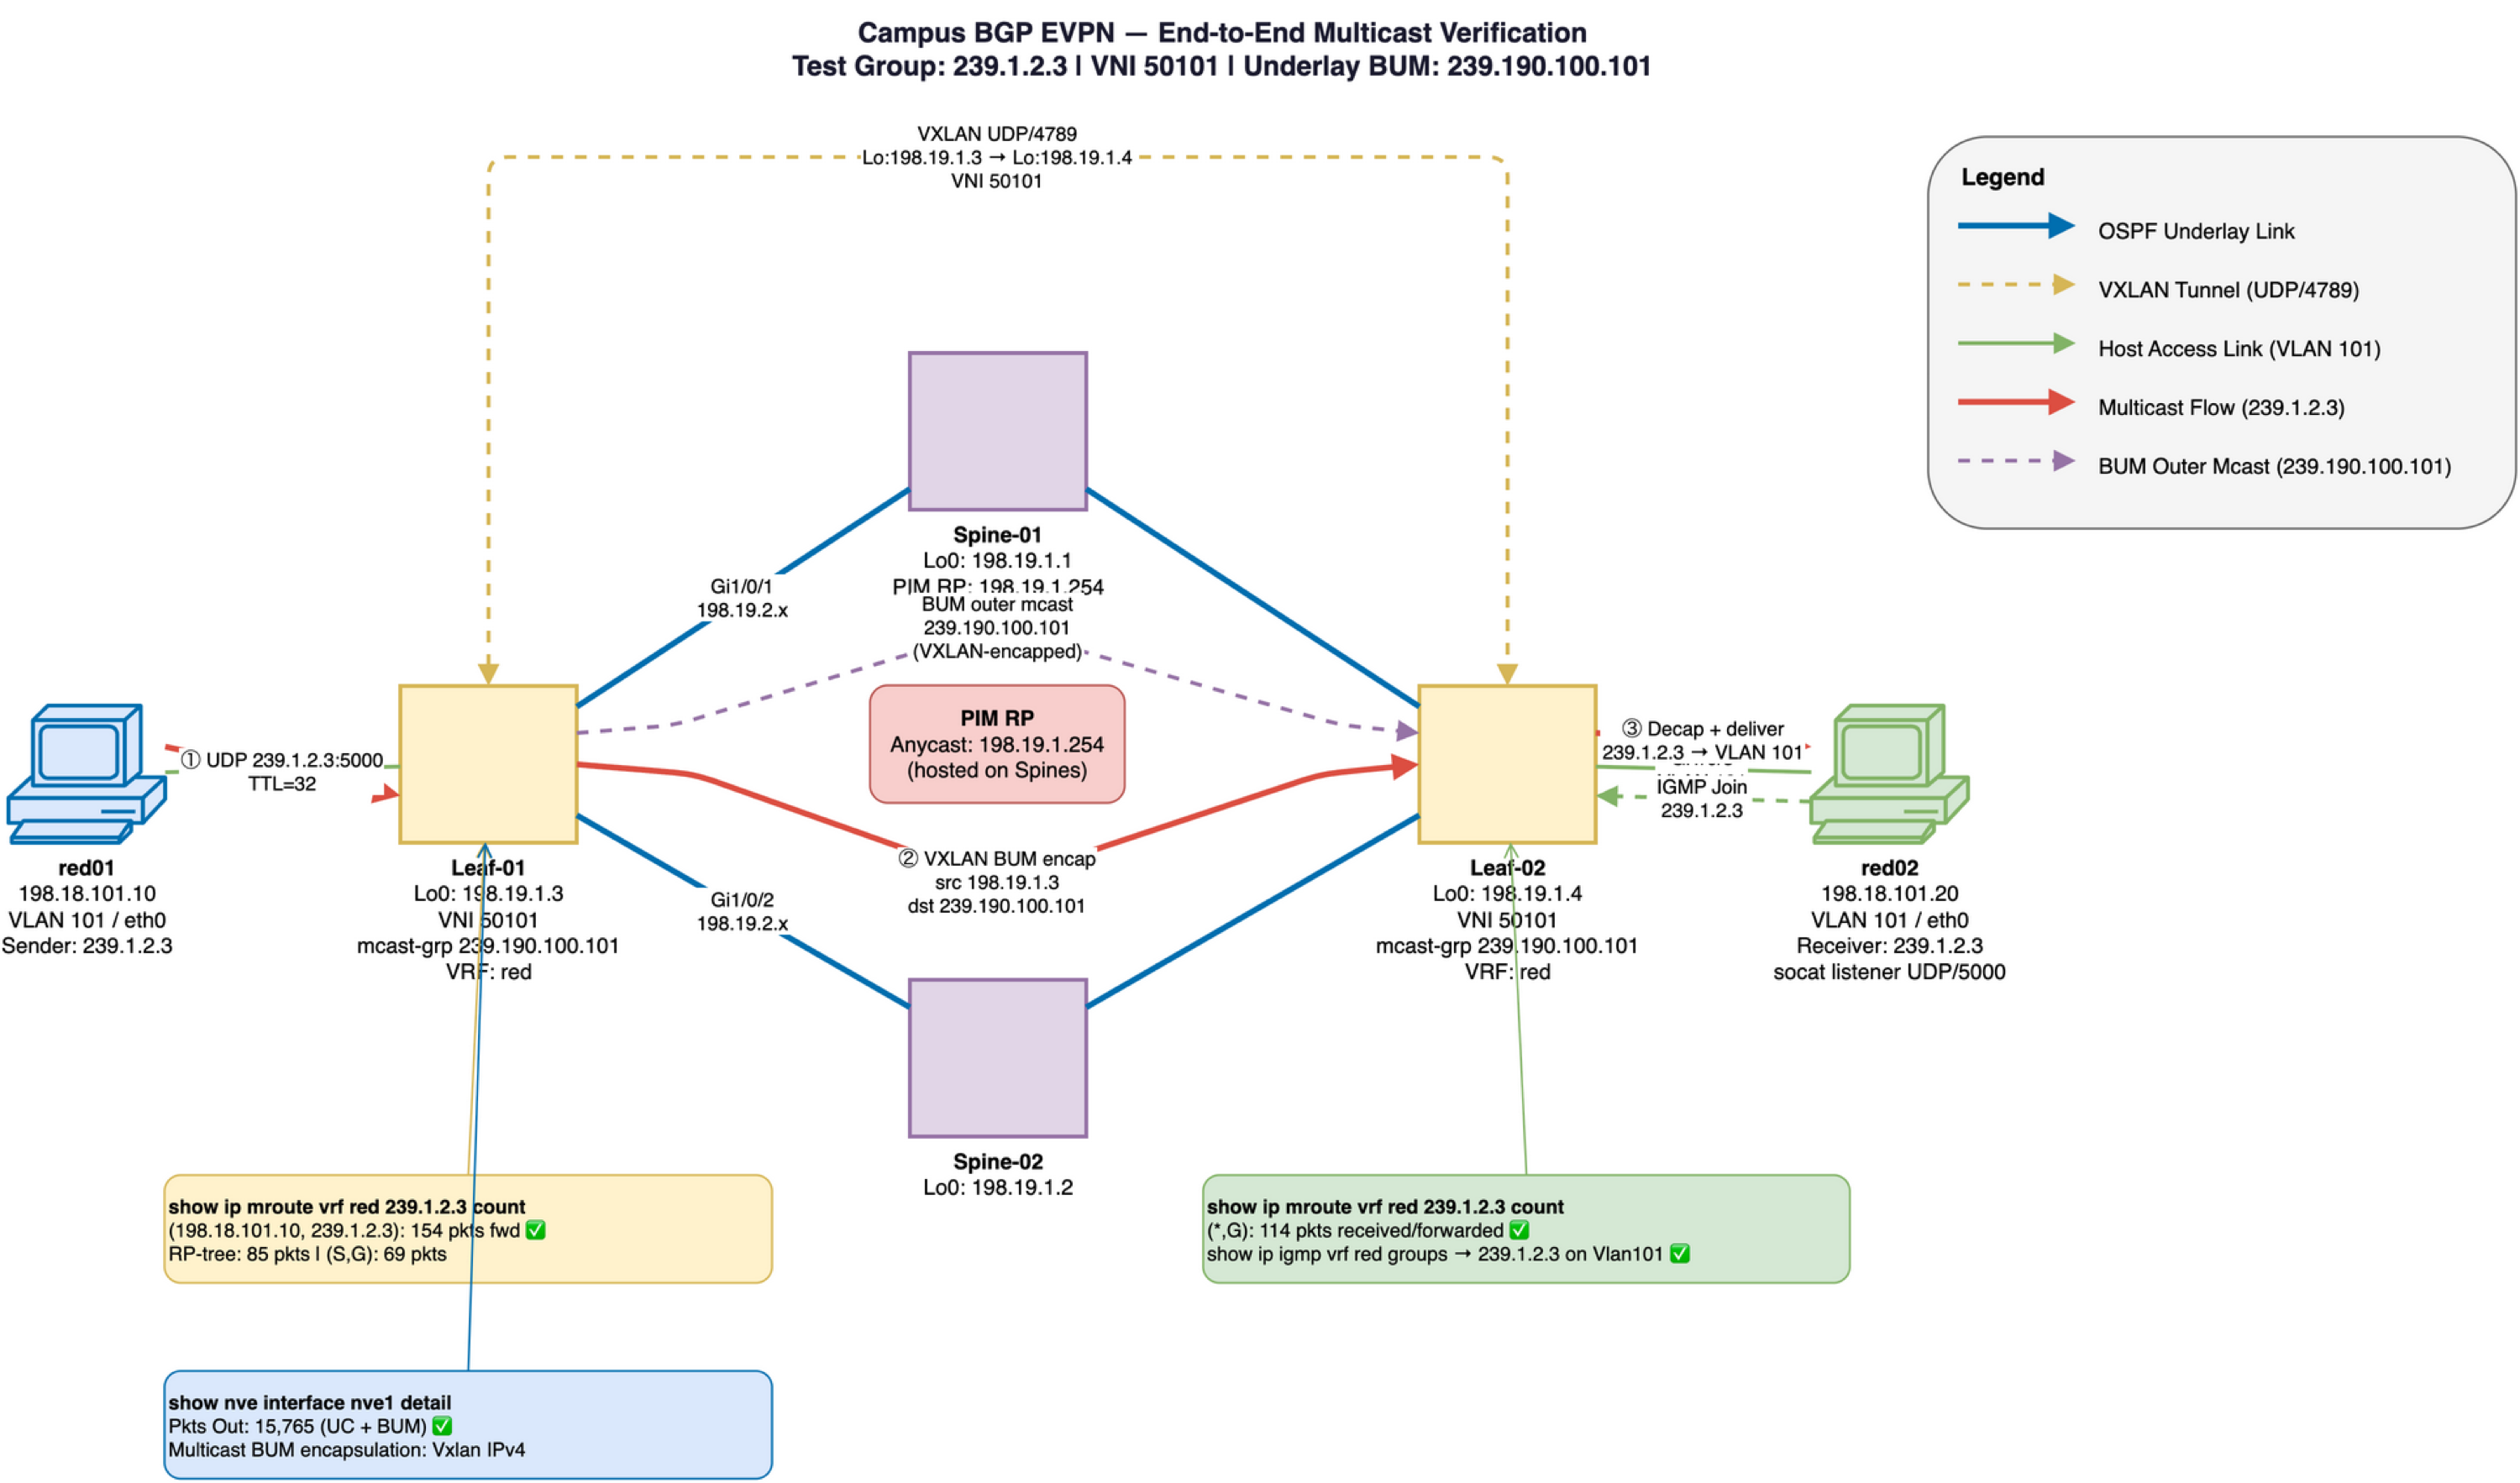
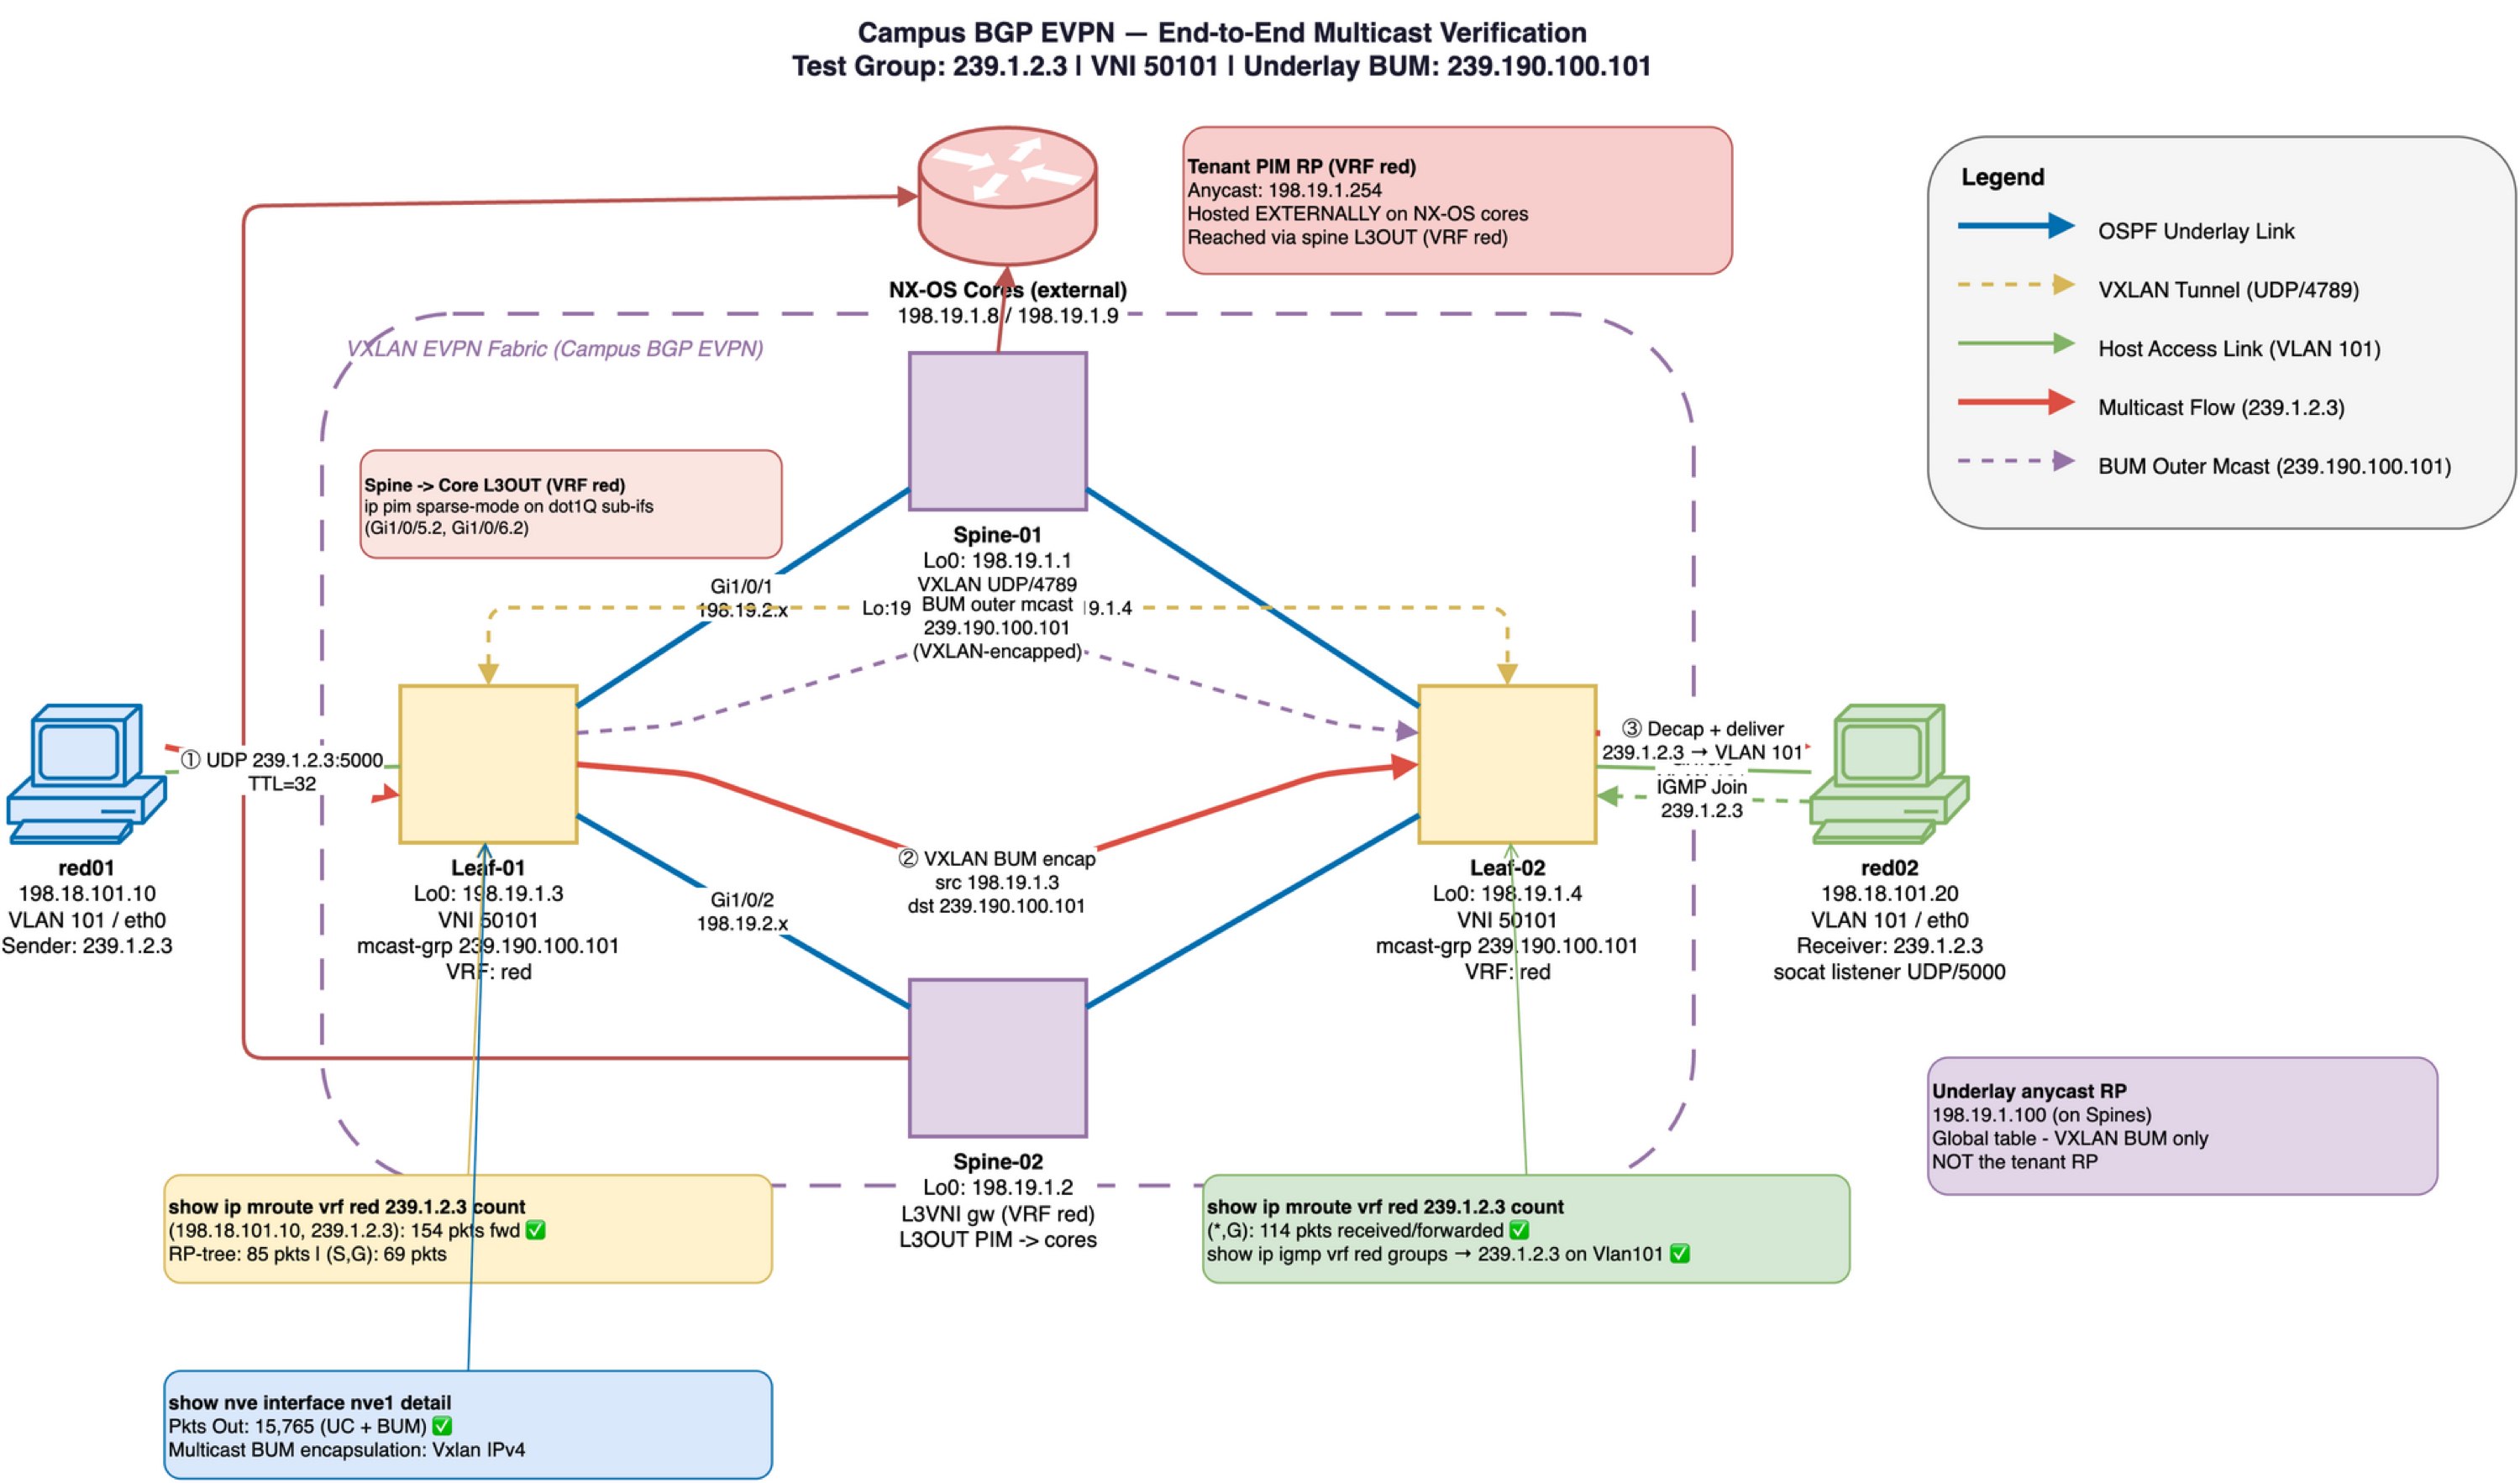
docs(mcast): add MVPN tutorial, root-cause analysis, and fix topology diagram
Document the TRM multicast investigation and corrected fabric design.

- README-MCAST-TCASE.md:
  - New section: BGP MVPN control-plane tutorial (route types 1-7, how to
    read an MVPN NLRI, RD-to-device legend, mroute flag decoder, signalling
    sequence diagram).
  - New section: root-cause analysis and resolution (register-source +
    L3OUT PIM), with converged-vs-stuck flag guidance.
  - Added Contents/TOC, renumbered sections, and new MVPN/PIM troubleshooting
    rows.
- mcast-tcase-topology.drawio/.png:
  - Correct RP labeling: tenant RP 198.19.1.254 is hosted EXTERNALLY on the
    NX-OS cores (not the spines); the spine-hosted 198.19.1.100 is the
    separate underlay BUM anycast RP.
  - Move the NX-OS Cores node north, outside a new dashed fabric boundary,
    with spine->core L3OUT PIM links.
- README.md: reflect test-cases relocation to project root.

diff --git a/test-cases/README-MCAST-TCASE.md b/test-cases/README-MCAST-TCASE.md
@@ -10,6 +10,24 @@
 
 ---
 
+## Contents
+
+1. [Objective](#1-objective)
+2. [Topology](#2-topology)
+3. [How TRM Multicast Works — BGP MVPN Control Plane (Tutorial)](#3-how-trm-multicast-works--bgp-mvpn-control-plane-tutorial)
+4. [Root Cause Analysis and Resolution](#4-root-cause-analysis-and-resolution)
+5. [Pre-Requisites and Host Setup](#5-pre-requisites-and-host-setup)
+6. [Test Procedure](#6-test-procedure)
+7. [Leaf Verification Commands and Outputs](#7-leaf-verification-commands-and-outputs)
+8. [Underlay BUM Path — Additional Verification](#8-underlay-bum-path--additional-verification)
+9. [Platform Telemetry Note (CAT9KV)](#9-platform-telemetry-note-cat9kv)
+10. [Test Result Summary](#10-test-result-summary)
+11. [Troubleshooting Reference](#11-troubleshooting-reference)
+
+> **New to tenant multicast?** Start with [§3 (the MVPN tutorial)](#3-how-trm-multicast-works--bgp-mvpn-control-plane-tutorial) — it explains the route types and how to read them — then [§4](#4-root-cause-analysis-and-resolution) for the real fault this fabric hit and how it was fixed.
+
+---
+
 ## 1. Objective
 
 Verify that IP multicast traffic sourced from a host connected to a VXLAN leaf (red01 on Leaf-01) is correctly:
@@ -63,7 +81,190 @@ drawio --export --format png --scale 1.5 \
 
 ---
 
-## 3. Pre-Requisites and Host Setup
+## 3. How TRM Multicast Works — BGP MVPN Control Plane (Tutorial)
+
+This fabric carries **tenant** (overlay/VRF) multicast using **TRM (Tenant Routable Multicast)**. TRM cleanly separates two multicast planes that are easy to confuse:
+
+| Plane | Purpose | RP | Distribution |
+|-------|---------|----|--------------|
+| **Underlay multicast** | Transports VXLAN **BUM** frames (broadcast, unknown-unicast, L2 multicast) between VTEPs for a given L2 VNI | Fabric anycast RP `198.19.1.100` (on spines) | Outer multicast group per L2 VNI (e.g. `239.190.100.101` for VNI 50101) |
+| **Overlay / tenant multicast (TRM)** | Routes **customer** IP multicast `(S,G)` between subnets/VLANs **inside a tenant VRF** | Enterprise anycast RP `198.19.1.254` (external, on NX-OS cores) | BGP MVPN control plane + L3 VNI MDT `239.190.0.1` |
+
+> The test group `239.1.2.3` is **routed tenant multicast inside VRF `red`** — it is handled by the **TRM/MVPN** plane, not the L2 BUM plane. Both planes are exercised, but the control-plane intelligence that makes cross-leaf delivery work is BGP MVPN.
+
+### 3.1 Roles in the multicast path
+
+| Role | Device(s) | Function |
+|------|-----------|----------|
+| **FHR** (First-Hop Router) | Leaf-01 | Directly connected to the **source** (red01). Detects the active source, PIM-registers it to the RP, originates the MVPN **Source-Active** route. |
+| **LHR** (Last-Hop Router) | Leaf-02 | Directly connected to the **receiver** (red02). Translates the receiver's IGMP join into PIM joins, originates MVPN **Shared-Tree** / **Source-Tree** join routes. |
+| **L3VNI gateway / border** | Spine-01, Spine-02 | Terminate VRF `red` (L3 VNI 50901), peer PIM to the external cores over the L3OUT sub-interfaces, and bridge the fabric MVPN control plane to the external RP. |
+| **RP** (Rendezvous Point) | NX-OS cores `198.19.1.254` (anycast) | Root of the tenant shared tree. Reached from the fabric via the VRF-`red` L3OUT and a `0.0.0.0/0` default. |
+
+### 3.2 The MDT (Multicast Distribution Tree) data plane
+
+Tenant multicast packets are carried **inside VXLAN** using the L3 VNI's MDT, configured per VRF:
+
+```
+ip pim vrf red ...
+router bgp 65001
+ address-family ipv4 mvpn vrf red
+!
+vrf definition red
+ address-family ipv4
+  mdt default vxlan 239.190.0.1     ← default MDT: floods tenant mcast to all PEs in the VRF
+  mdt auto-discovery vxlan          ← PEs auto-discover each other via MVPN Type-1 routes
+  mdt overlay use-bgp               ← use BGP MVPN (not PIM) as the overlay signalling protocol
+```
+
+`mdt default vxlan 239.190.0.1` means: when a PE must flood tenant multicast to every other PE in VRF `red`, it VXLAN-encapsulates the packet to outer group `239.190.0.1`. Selective trees (data MDTs) can later be built for high-rate `(S,G)` flows.
+
+### 3.3 BGP MVPN Route Types — the control plane
+
+TRM signalling rides on the **BGP IPv4 MVPN** address family (RFC 6514). Seven route types are defined; in a TRM EVPN fabric you will primarily see **Types 1, 3, 5, 6, and 7**:
+
+| Type | Name | What it announces | Originated by | Direction |
+|:----:|------|-------------------|---------------|-----------|
+| **1** | Intra-AS I-PMSI A-D | "I am a PE participating in this VRF, and here is my default MDT" — auto-discovery | Every PE in the VRF | All ↔ all |
+| **2** | Inter-AS I-PMSI A-D | Same, but across AS boundaries | ASBR | Inter-AS |
+| **3** | S-PMSI A-D | "I am creating a **selective** (data) MDT for this `(S,G)`" | Source PE (FHR) | Source → all |
+| **4** | Leaf A-D | "I want to join the selective MDT you advertised in a Type-3" | Receiver PE (LHR) | Receiver → source |
+| **5** | **Source Active (SA)** | "Source **S** is **active** for group **G**" — distributes source knowledge fabric-wide so RPF works without flooding | FHR (or the PE that learns the source from the RP) | Source → all |
+| **6** | **Shared-Tree Join (C-\*,G)** | "A receiver wants group **G** on the **shared tree**" — carries a PIM `(*,G)` join toward the RP across BGP | LHR (receiver PE) | Receiver → RP-PE |
+| **7** | **Source-Tree Join (C-S,G)** | "A receiver wants `(S,G)` on the **shortest-path tree**" — carries a PIM `(S,G)` join toward the source across BGP | LHR (receiver PE) | Receiver → source-PE |
+
+#### How to read an MVPN NLRI
+
+IOS-XE prints MVPN routes as a bracketed NLRI:
+
+```
+[route-type][route-distinguisher][...type-specific fields...]
+```
+
+The **route distinguisher (RD)** identifies the VRF on the originating PE and is formatted `loopback0-ip:vrf-id` (here VRF `red` = id `901`). Use this loopback legend to map an RD back to a device:
+
+| Loopback0 IP | Device | Role |
+|--------------|--------|------|
+| `198.19.1.1` | Spine-01 | L3VNI gateway / MVPN border |
+| `198.19.1.2` | Spine-02 | L3VNI gateway / MVPN border |
+| `198.19.1.3` | Leaf-01 | FHR (source side) |
+| `198.19.1.4` | Leaf-02 | LHR (receiver side) |
+| `198.19.1.254` | NX-OS cores (anycast) | Tenant RP |
+
+**Worked examples** (source `198.18.101.10`, group `239.1.2.3`, VRF `red`/`901`):
+
+```
+[5][198.19.1.1:901][198.18.101.10][239.1.2.3]
+ │   │              │               └─ group G
+ │   │              └─ source S (active)
+ │   └─ RD = originating PE's VRF-red RD (198.19.1.1 = Spine-01)
+ └─ Type 5  → "Source 198.18.101.10 is ACTIVE for 239.1.2.3"
+```
+
+```
+[6][<rd>][<rp-addr>][239.1.2.3]
+ └─ Type 6  → "A receiver joined the SHARED tree (*,239.1.2.3) rooted at RP"
+```
+
+```
+[7][198.19.1.3:901][198.18.101.10][239.1.2.3]
+ └─ Type 7  → "A receiver wants the SOURCE tree (198.18.101.10, 239.1.2.3)"
+              RD points at the PE the join is steered toward (source-side, Leaf-01)
+```
+
+#### End-to-end signalling sequence
+
+```mermaid
+sequenceDiagram
+    participant Src as red01 (source)
+    participant FHR as Leaf-01 (FHR)
+    participant SPN as Spine (L3VNI/border)
+    participant RP as Core RP 198.19.1.254
+    participant LHR as Leaf-02 (LHR)
+    participant Rcv as red02 (receiver)
+
+    Rcv->>LHR: IGMP join 239.1.2.3
+    LHR->>SPN: BGP MVPN Type-6 (Shared-Tree-Join *,G)
+    SPN->>RP: PIM (*,G) join over L3OUT (needs ip pim sparse-mode)
+    Src->>FHR: multicast data 239.1.2.3
+    FHR->>RP: PIM Register (source = Loopback901, register-source)
+    FHR->>SPN: BGP MVPN Type-5 (Source-Active S,G)
+    LHR->>SPN: BGP MVPN Type-7 (Source-Tree-Join S,G) after learning S
+    Note over FHR,LHR: SPT built across fabric over L3VNI MDT 239.190.0.1
+    FHR-->>LHR: VXLAN-encapsulated (S,G) data
+    LHR->>Rcv: decapsulated multicast delivered
+```
+
+The two highlighted dependencies in this sequence are exactly what this test case validates and what the fix below restored:
+1. **PIM Register must source from a routable loopback** (`register-source Loopback901`) — otherwise the RP cannot return-route the Register and the FHR never originates the Type-5 SA.
+2. **The spine→core L3OUT sub-interfaces must run PIM** (`ip pim sparse-mode`) — otherwise the shared-tree join (Type-6 → PIM `(*,G)`) cannot reach the external RP and no tree is ever built.
+
+### 3.4 Key MVPN / TRM show commands
+
+| Command | Shows |
+|---------|-------|
+| `show bgp ipv4 mvpn all` | All MVPN route types (1/3/5/6/7) with their NLRIs |
+| `show bgp ipv4 mvpn vrf red` | MVPN routes scoped to VRF `red` |
+| `show ip mroute vrf red 239.1.2.3` | Tenant `(*,G)` / `(S,G)` state and mroute **flags** |
+| `show ip mroute vrf red 239.1.2.3 count` | Software packet counters per tree |
+| `show ip pim vrf red neighbor` | PIM adjacencies (must include the core over the L3OUT sub-ifs) |
+| `show ip pim vrf red rp mapping` | Learned RP for the group range |
+| `show ip pim vrf red tunnel` | PIM Register/Encap tunnel state and its source address |
+
+#### Decoding mroute flags
+
+The `flags:` field on each mroute line is the fastest way to read fabric multicast health:
+
+| Flag | Meaning |
+|:----:|---------|
+| `S` | Sparse mode |
+| `P` | **Pruned** — no outgoing interfaces (often "stuck" if it never clears) |
+| `F` | **Register** — FHR is PIM-registering this source to the RP |
+| `T` | **SPT-bit set** — forwarding on the shortest-path (source) tree |
+| `G` | Received via BGP MVPN / VXLAN encap (overlay-signalled) |
+| `q` | **MVPN Source-Active received/originated** (Type-5 SA present) — the key "converged" flag |
+| `x` | Proxy-join / cross-VRF encap state for VXLAN |
+| `Q` | Received on the MDT (overlay) interface |
+
+> **Converged FHR** mroute reads `flags: FTGqx` with an **outgoing** `Vlan901 VXLAN ... Encap ... Forward`.
+> **Stuck FHR** reads `flags: PFT` with `Outgoing interface list: Null` and **no `q`** — the symptom this test originally hit (see §4).
+
+---
+
+## 4. Root Cause Analysis and Resolution
+
+When this test case was first run, end-to-end delivery **failed**: red02's listener printed nothing even though red01 was sending. The systematic diagnosis below located the fault and produced two permanent template fixes.
+
+### 4.1 Symptoms observed
+
+| Observation | Device | Meaning |
+|-------------|--------|---------|
+| `(S,G)` stuck in `flags: PFT`, OIL `Null`, no `q` | Leaf-01 (FHR) | Source seen, but PIM Register never completed → **no Type-5 SA** originated |
+| `ping vrf red 198.19.1.254` = 0% (default/Vlan101 source) but 100% sourced from `Loopback901` | Leaf-01 | RP only reachable from the **routable per-leaf loopback**, not the shared anycast SVI `198.18.101.1` |
+| `show ip pim vrf red neighbor` empty toward cores | Spine-01/02 | **No PIM on the L3OUT sub-interfaces** → shared tree can never reach the external RP |
+
+### 4.2 Root causes
+
+1. **PIM Register sourced from a non-routable address.** The FHR registered using the anycast Vlan101 SVI (`198.18.101.1`, identical on every leaf). The cores summarise that subnet and have no return route to a specific leaf, so the PIM Register/Encap tunnel never came up and no MVPN Type-5 Source-Active was generated.
+2. **No PIM on the spine→core L3OUT.** The VRF-`red` dot1Q sub-interfaces toward the cores (`Gi1/0/5.2`, `Gi1/0/6.2`) had `ip address` but **no `ip pim sparse-mode`**. The spines therefore had zero PIM neighbors into the external RP, so a shared-tree join could never be propagated.
+
+### 4.3 The fix (now permanent in templates)
+
+| Fix | Config | Template | Effect |
+|-----|--------|----------|--------|
+| **1** | `ip pim vrf red register-source Loopback901` | [FABRIC-MCAST.j2](../Catalyst%20Center%20Templates/Site%20BGP%20EVPN%20Templates/FABRIC-MCAST.j2) | FHR registers from the routable Loopback901 (`198.18.100.3`) → PIM Register completes, Type-5 SA originated |
+| **2** | `ip pim sparse-mode` on the L3OUT VRF sub-interfaces | [FABRIC-L3OUT.j2](../Catalyst%20Center%20Templates/Site%20BGP%20EVPN%20Templates/FABRIC-L3OUT.j2) | Spines form PIM neighbors to both cores → shared tree reaches the external RP |
+
+After both changes the fabric converged immediately:
+- Spine PIM neighbors formed: Spine-01 ↔ `198.19.2.49`/`198.19.2.53`, Spine-02 ↔ `198.19.2.57`/`198.19.2.61`.
+- Leaf-01 `(S,G)` advanced from `PFT` → `FTGqx` with OIL `Vlan901 VXLAN v4 Encap (50901, 239.190.0.1) Forward`.
+- The spine learned MVPN `[5]`, `[6]`, and `[7]` routes for `239.1.2.3` and Leaf-02 began forwarding to `Vlan101`.
+
+> **Validation tip:** a converged FHR shows the `q` flag (Type-5 SA present). If `q` is missing, suspect the Register path (Fix 1); if the receiver leaf never gets an mroute, suspect the L3OUT PIM path (Fix 2).
+
+---
+
+## 5. Pre-Requisites and Host Setup
 
 ### 3.1 DNS Resolution (both hosts)
 
@@ -92,7 +293,7 @@ apk add socat
 
 ---
 
-## 4. Test Procedure
+## 6. Test Procedure
 
 ### Step 1 — red02: Join multicast group 239.1.2.3 and start listener
 
@@ -162,9 +363,9 @@ BUM-test pkt 20 from red01
 
 ---
 
-## 5. Leaf Verification Commands and Outputs
+## 7. Leaf Verification Commands and Outputs
 
-### 5.1 Leaf-01 — Sender-side mroute state (VRF red)
+### 7.1 Leaf-01 — Sender-side mroute state (VRF red)
 
 ```
 Leaf-01# show ip mroute vrf red 239.1.2.3
@@ -203,9 +404,11 @@ Group: 239.1.2.3, Source count: 1, Packets forwarded: 154, Packets received: 154
 
 > **PIM sparse-mode RP-tree vs SPT:** The first packets are sent to the RP via the shared tree (*,G). Once the downstream receiver (via Leaf-02's PIM join) requests the SPT, Leaf-01 switches to source-specific forwarding (S,G). The packet count split between RP-tree (85) and (S,G) (69) reflects this transition.
 
+> **Reading FHR convergence by flags (see §3.4):** a fully converged FHR `(S,G)` reads `flags: FTGqx` with an **outgoing** `Vlan901 VXLAN ... Encap (50901, 239.190.0.1) Forward`. The presence of `q` confirms the MVPN Type-5 Source-Active was originated. If you instead see `flags: PFT` with `Outgoing interface list: Null` and no `q`, the PIM Register never completed — apply §4.3 Fix 1 (`register-source Loopback901`).
+
 ---
 
-### 5.2 Leaf-02 — Receiver-side mroute state (VRF red)
+### 7.2 Leaf-02 — Receiver-side mroute state (VRF red)
 
 ```
 Leaf-02# show ip igmp vrf red groups
@@ -236,7 +439,7 @@ Group: 239.1.2.3, Source count: 0, Packets forwarded: 114, Packets received: 114
 
 ---
 
-## 6. Underlay BUM Path — Additional Verification
+## 8. Underlay BUM Path — Additional Verification
 
 The underlay mcast group `239.190.100.101` is the VXLAN BUM distribution tree for VNI 50101. BUM frames (including the multicast packets from red01 before IGMP snooping optimizes the path) are encapsulated in VXLAN and sent to this outer group.
 
@@ -273,7 +476,7 @@ tunnel interface: Tunnel0
 
 ---
 
-## 7. Platform Telemetry Note (CAT9KV)
+## 9. Platform Telemetry Note (CAT9KV)
 
 During this investigation, the YANG telemetry counter `cisco.mc-output-packets` (path: `Cisco-IOS-XE-nve-oper:nve-oper-data/nve-oper-counters`) was observed to be **permanently 0** on all devices despite confirmed BUM multicast forwarding at the hardware level.
 
@@ -293,7 +496,7 @@ show nve interface nve1 detail             ← total hardware NVE Pkts Out (work
 
 ---
 
-## 8. Test Result Summary
+## 10. Test Result Summary
 
 | Verification Step | Expected | Actual | Result |
 |-------------------|----------|--------|--------|
@@ -308,7 +511,7 @@ show nve interface nve1 detail             ← total hardware NVE Pkts Out (work
 
 ---
 
-## 9. Troubleshooting Reference
+## 11. Troubleshooting Reference
 
 | Symptom | Likely Cause | Resolution |
 |---------|-------------|------------|
@@ -319,3 +522,7 @@ show nve interface nve1 detail             ← total hardware NVE Pkts Out (work
 | `show ip mroute vrf red` has `Outgoing interface list: Null` | No PIM downstream join received | Confirm red02 joined the group before sender fired; wait for PIM join propagation |
 | `mc-output-packets` is 0 in Splunk | CAT9KV hardware path doesn't feed YANG counter | Use `show ip mroute vrf <vrf> <group> count` on receiving leaf as CLI equivalent |
 | red02 gets fewer packets than red01 sent | Normal — PIM RP-tree vs SPT switchover drops a few packets during transition | Acceptable; count difference ≤ initial RP-tree packets before SPT converges |
+| FHR `(S,G)` stuck `flags: PFT`, OIL Null, no `q` | PIM Register never completed — sourced from non-routable anycast SVI | Add `ip pim vrf red register-source Loopback901` (see §4.3 Fix 1); confirm `show ip pim vrf red tunnel` shows the Encap tunnel **UP** sourced from the loopback |
+| No MVPN Type-5 SA in `show bgp ipv4 mvpn vrf red` | FHR never registered the source, so no Source-Active originated | Same as above — fix the register-source; the `q` flag and the `[5]` route appear together once Register completes |
+| Spine has no PIM neighbor toward cores | L3OUT VRF sub-interfaces missing `ip pim sparse-mode` | Add PIM to the spine→core dot1Q sub-ifs (see §4.3 Fix 2); verify with `show ip pim vrf red neighbor` |
+| Receiver leaf never builds an mroute for the group | Shared-tree join (Type-6 → PIM `(*,G)`) can't reach the external RP | Ensure spine→core L3OUT PIM is up (Fix 2) and RP is reachable in VRF `red` |

diff --git a/README.md b/README.md
@@ -137,8 +137,11 @@ Campus BGP EVPN Splunk Assurance/    # Operational assurance: role-aware Splunk 
 ├── Model Maps/                      # YANG → Splunk metric model mappings
 ├── model-config-snippets/           # IOS-XE MDT telemetry subscription snippets
 ├── tools/                           # Splunk Studio dashboard validation/conversion utilities
-├── test-cases/                      # Assurance validation scenarios
 └── README.md                       # Full assurance suite documentation
+
+test-cases/                          # Fabric validation scenarios and topologies
+├── README-MCAST-TCASE.md           # Tenant Routable Multicast test case
+└── images/                          # Test case topology diagrams
 
 Release Notes/                       # Dated feature and behavior change notes
 ```